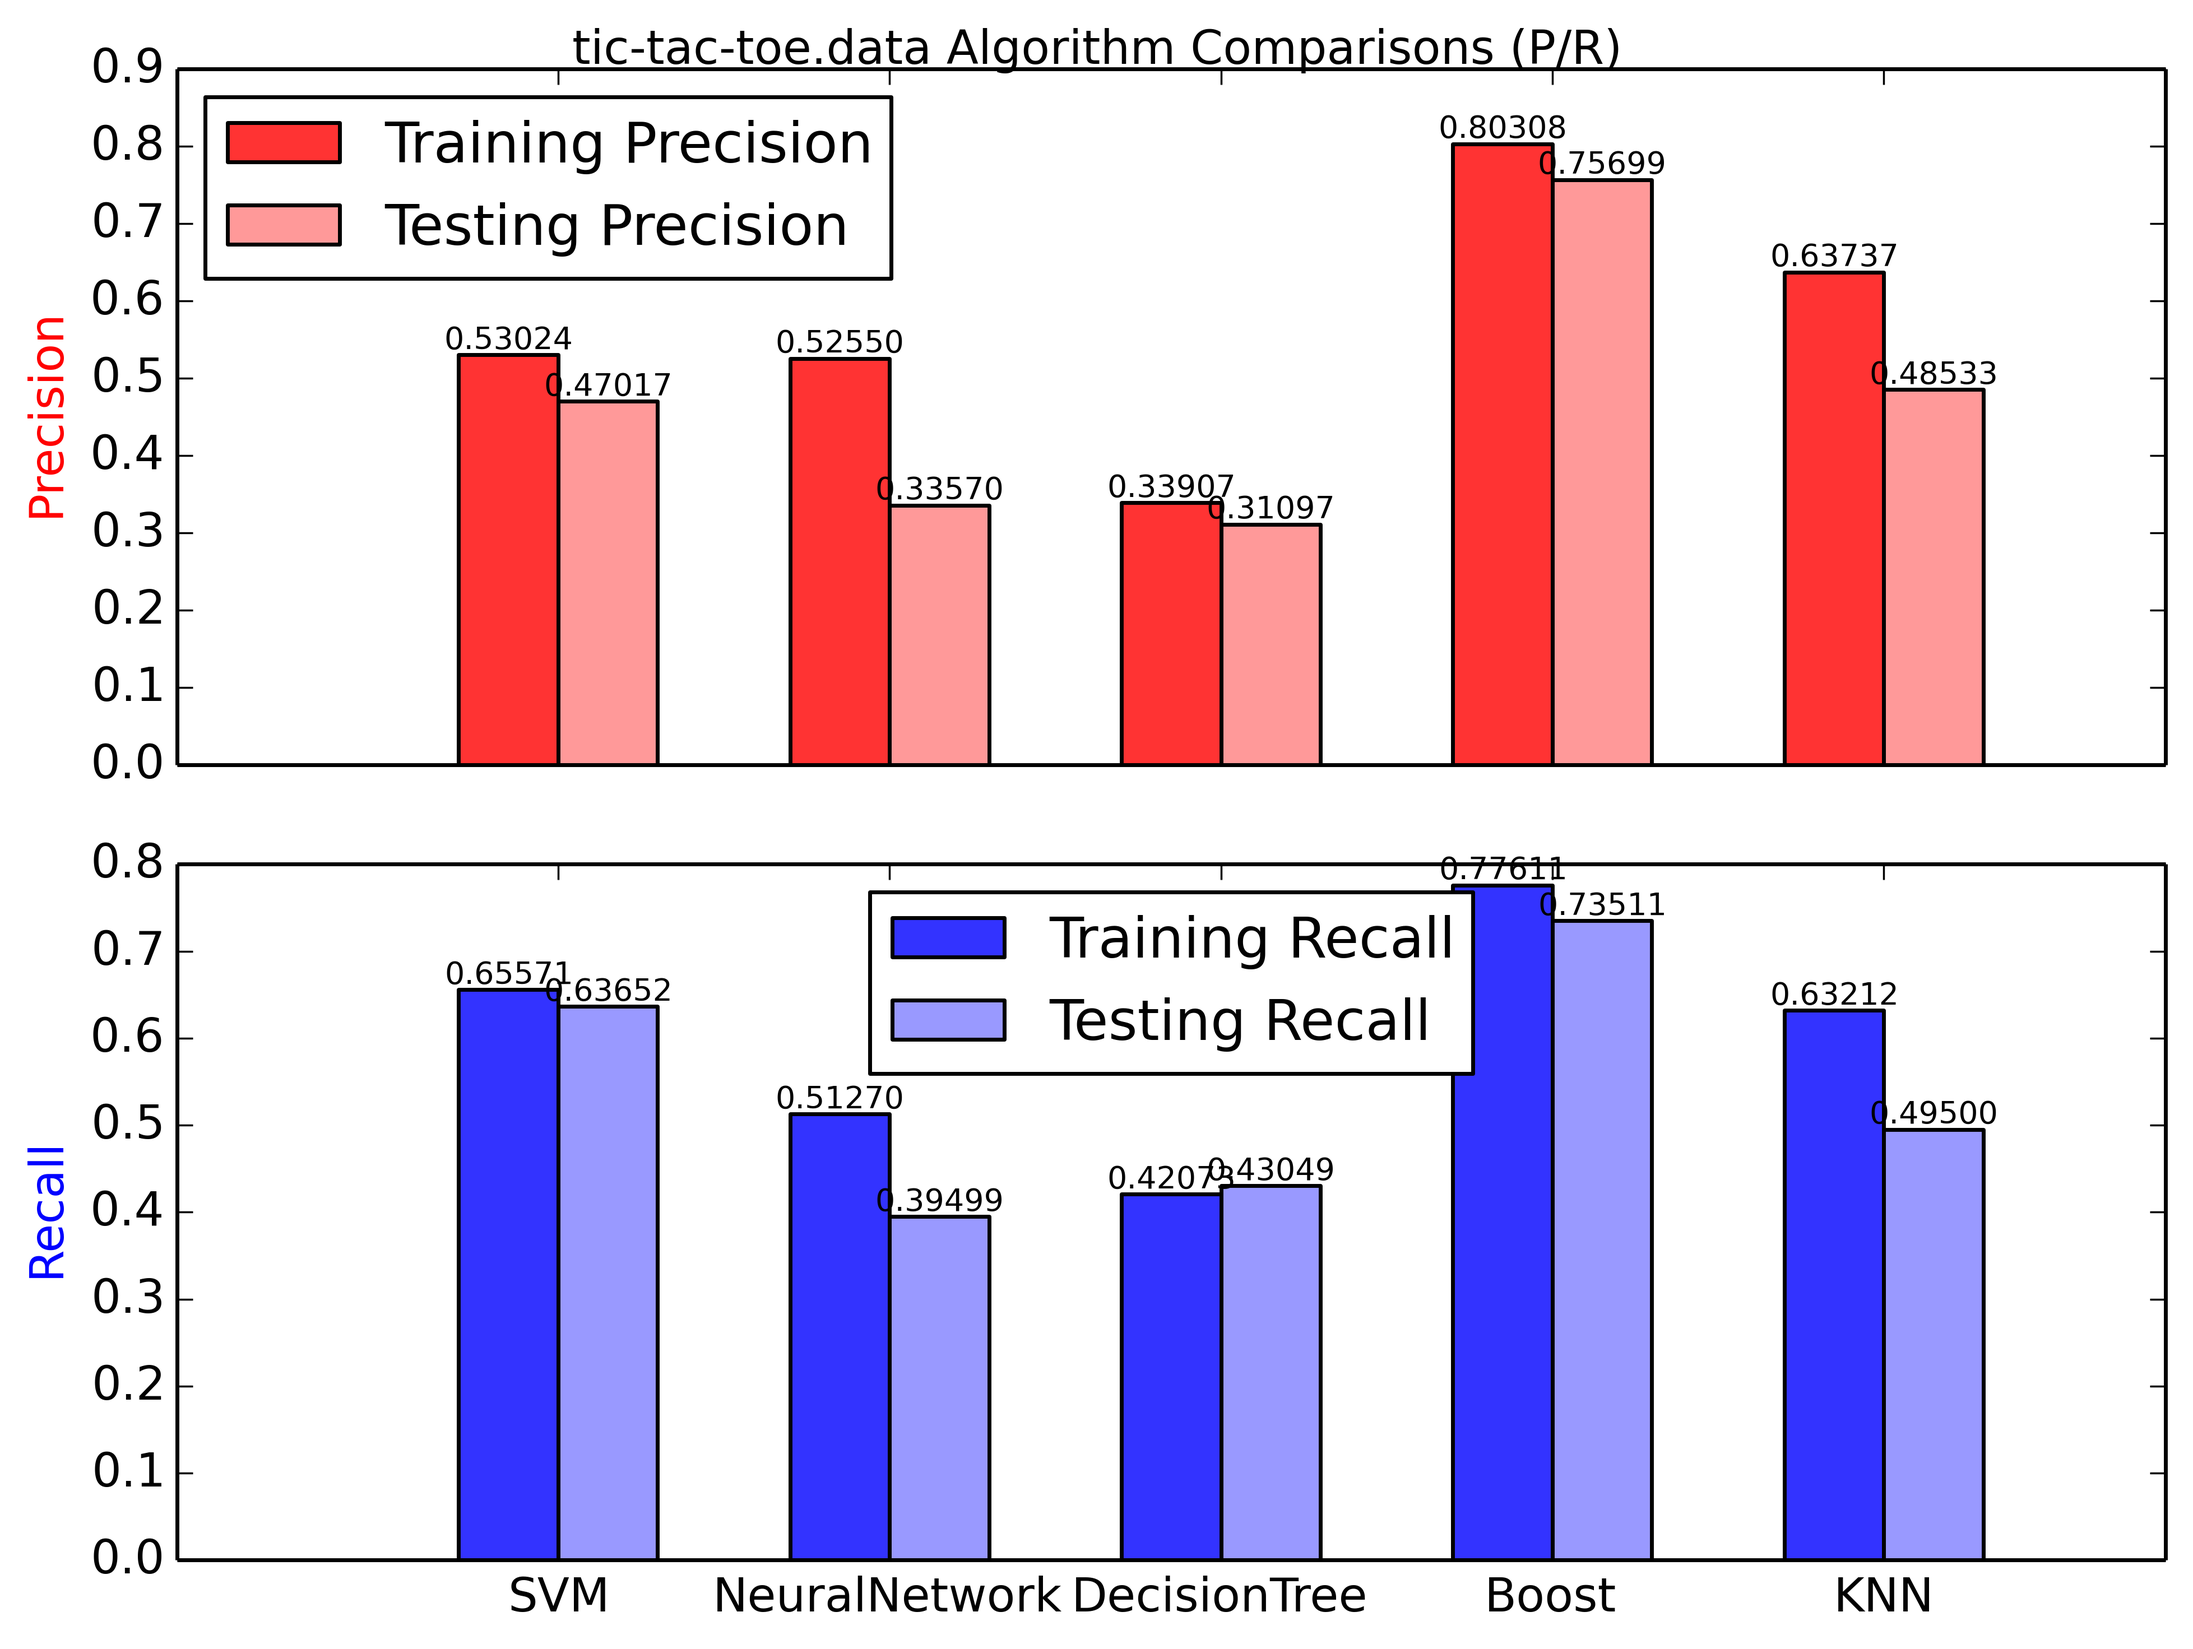
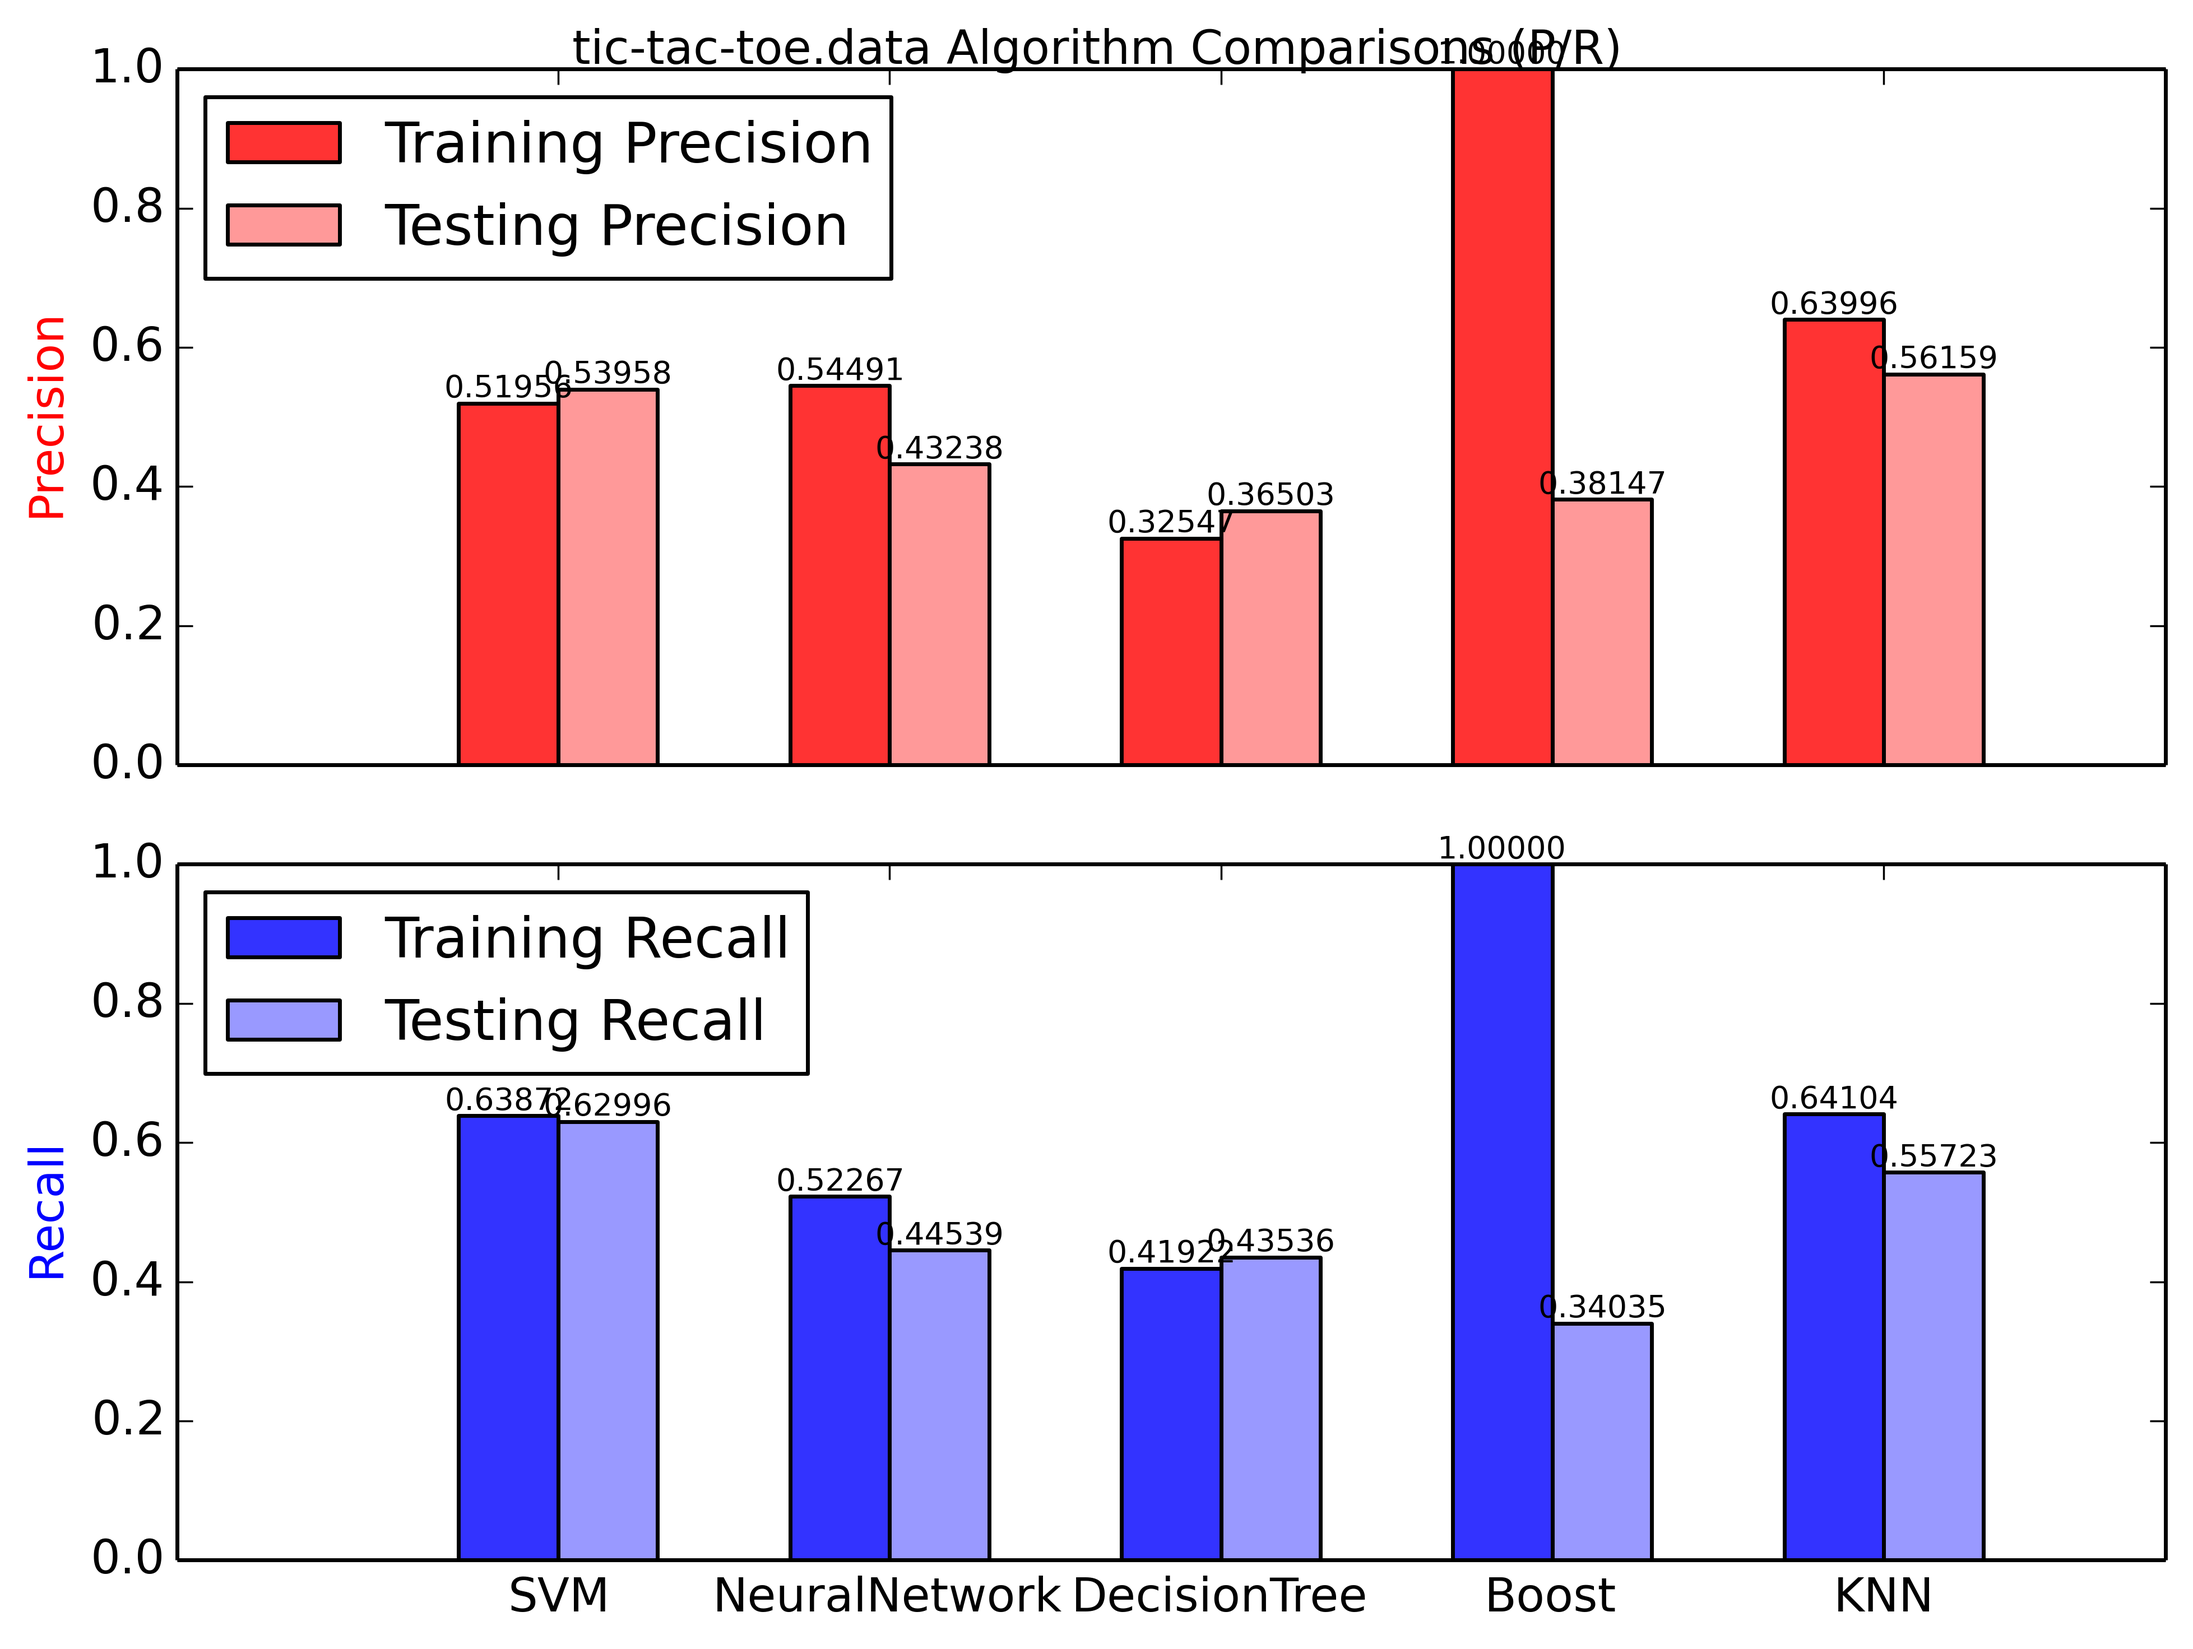
modified graphs

diff --git a/proj1/model_select.py b/proj1/model_select.py
@@ -89,7 +89,7 @@ def model_validation(dataset, model_type, estimator, parameters, x_train, y_trai
     ax.set_ylabel('Mean Cross Validation Accuracy (%)')
     ax.set_xlabel('Combinations of hyperparameters: '+key1+"/"+key2)
     indices = np.arange(1, len(x_labels)*width*2+1, width*2)
-    bar = ax.bar(indices, means, width, alpha =0.6, label='Accuracy')#, yerr=stds)
+    bar = ax.bar(indices, means, width, alpha =0.6, label='Accuracy', yerr=stds)
     plt.xticks(indices+width/2)
     ax.set_xticklabels(x_labels, rotation=45, fontsize=fontsize)
     ax.yaxis.grid()
@@ -238,18 +238,18 @@ if __name__=='__main__':
         generate_learning_curve(dataset1, name, model, x_train, y_train)
 
     ### second dataset
-    #dataset2 = 'agaricus-lepiota.data'
     dataset2 = 'tic-tac-toe.data'
     print("-----------------------------------Dataset 2--------------------------------------")
     x, y = load_data2(dataset2,attributes=10)
     x_train, x_test, y_train, y_test = split_train_test(x, y, 0.2)
 #    print('x_train: {} \ny_train: {} \nx_test: {} \ny_test: {}'.format(x_train, y_train, x_test, y_test))
 
-#    nn_validation(dataset2, x_train, y_train, x_test, y_test)
-#    svm_validation(dataset2, x_train, y_train, x_test, y_test)
-#    dt_validation(dataset2, x_train, y_train, x_test, y_test)
-#    knn_validation(dataset2, x_train, y_train, x_test, y_test)
-#    boost_validation(dataset2, x_train, y_train, x_test, y_test, minss=2, maxd=1)
+    nn_validation(dataset2, x_train, y_train, x_test, y_test)
+    svm_validation(dataset2, x_train, y_train, x_test, y_test)
+    dt_validation(dataset2, x_train, y_train, x_test, y_test)
+    knn_validation(dataset2, x_train, y_train, x_test, y_test)
+    boost_validation(dataset2, x_train, y_train, x_test, y_test, minss=2, maxd=1)
+#    boost_validation(dataset2, x_train, y_train, x_test, y_test, minss=2, maxd=None)
     #boost_validation(dataset2, x_train, y_train, x_test, y_test, minss=8, maxd=61)
 
     models = []
@@ -258,10 +258,10 @@ if __name__=='__main__':
     models.append(('DecisionTree', DecisionTreeClassifier(max_depth=1, min_samples_split=2)))
     models.append(('Boost', AdaBoostClassifier(n_estimators=61, learning_rate=1.0, base_estimator=DecisionTreeClassifier(min_samples_split=2, max_depth=1))))
     models.append(('KNN', KNeighborsClassifier(n_neighbors=9, weights='uniform')))
-#    compare_algorithms_precision(dataset2, models, x_train, y_train, x_test, y_test)
-#    compare_algorithms(dataset2, models, x_train, y_train, x_test, y_test)
-#    for name, model in models:
-#        generate_learning_curve(dataset2, name, model, x_train, y_train)
+    compare_algorithms_precision(dataset2, models, x_train, y_train, x_test, y_test)
+    compare_algorithms(dataset2, models, x_train, y_train, x_test, y_test)
+    for name, model in models:
+        generate_learning_curve(dataset2, name, model, x_train, y_train)
 
     ### second dataset
 
